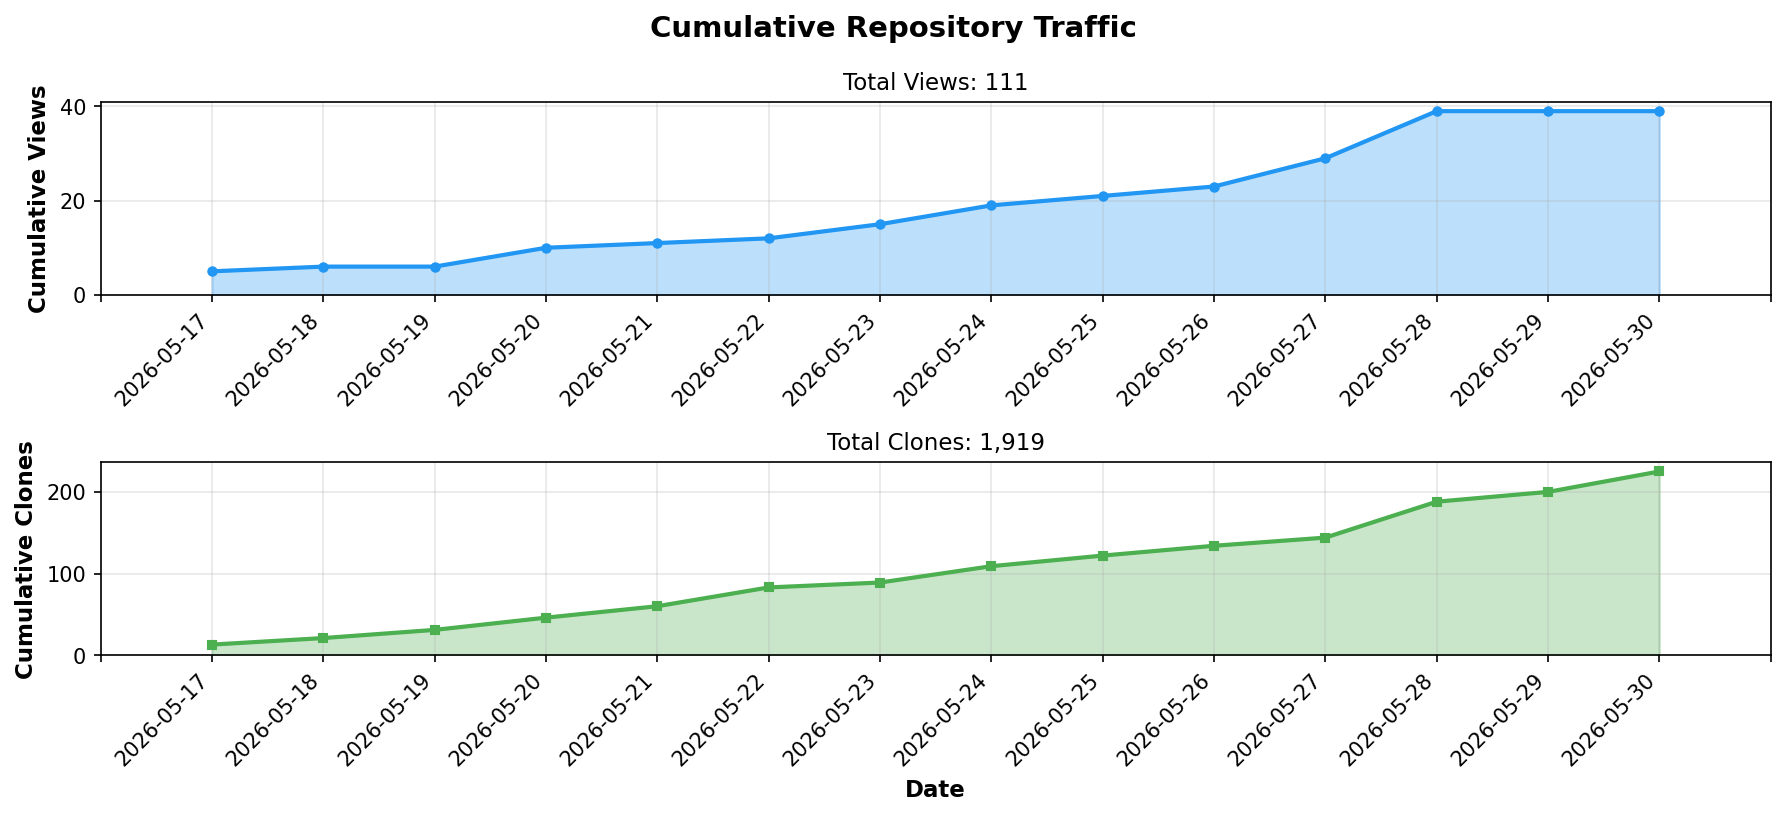
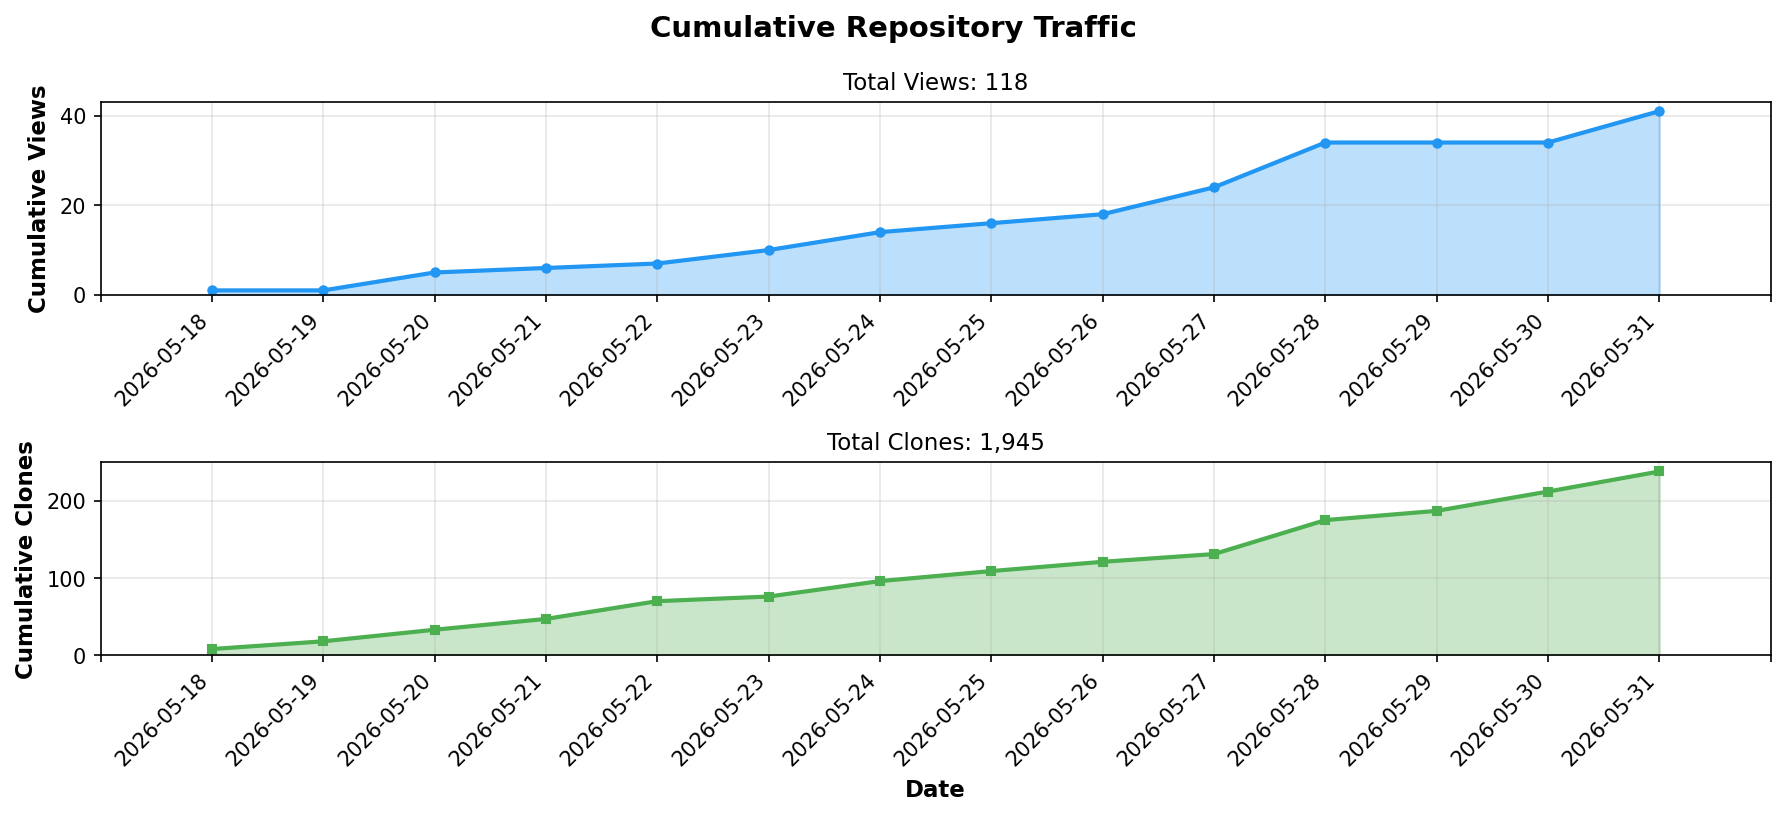
chore: update repository stats [skip ci]

diff --git a/README.md b/README.md
@@ -87,10 +87,10 @@ I'm BonoJovi (Yoshihiro NAKAHARA), the project initiator.
 
 | Metric | Count |
 |--------|-------|
-| 👁 **Total Views** | **111** |
-| 📦 **Total Clones** | **1,919** |
+| 👁 **Total Views** | **118** |
+| 📦 **Total Clones** | **1,945** |
 
-*Last Updated: 2026-06-01 01:50 UTC*
+*Last Updated: 2026-06-02 01:53 UTC*
 
 </div>
 <!-- STATS_END -->
